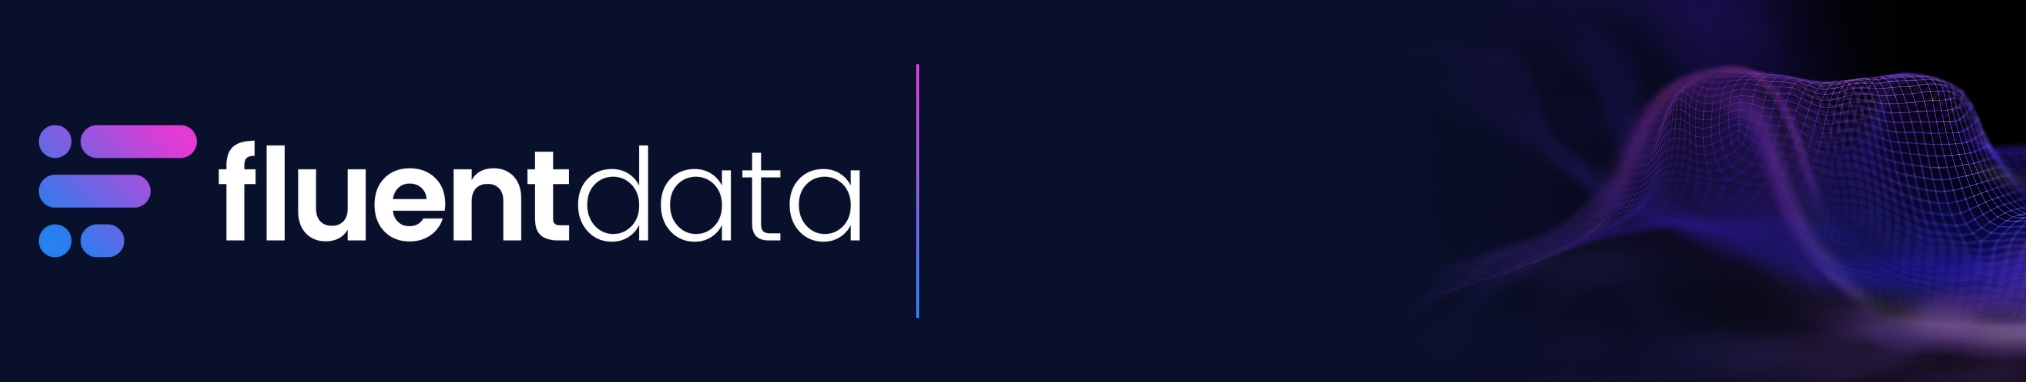
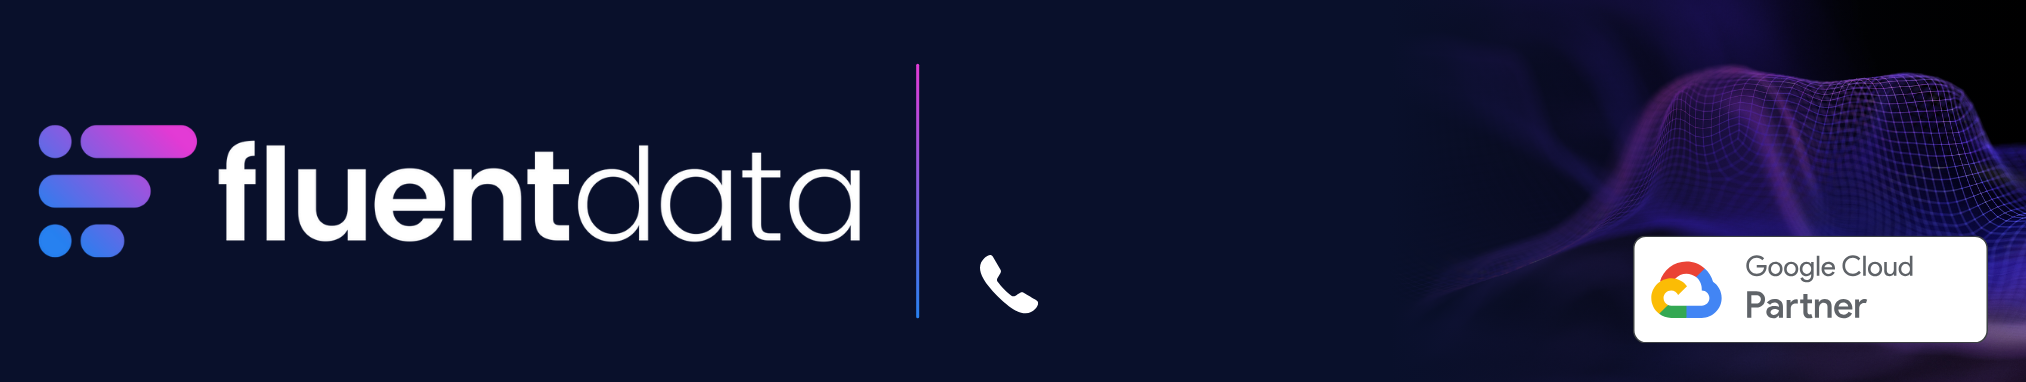
Include phone number in signature

Changed region(s): [[0.8085, 0.6047, 0.9951, 0.9215], [0.4664, 0.6623, 0.4975, 0.7775], [0.4975, 0.7775, 0.5286, 0.8351]]

diff --git a/app.py b/app.py
@@ -8,14 +8,19 @@ st.set_page_config(
 )
 
 
-def create_email_signature(name, role, name_font_size=70, role_font_size=40):
+def create_email_signature(name, role, phone, name_font_size=70, role_font_size=40, phone_font_size=40):
     image = Image.open("signature.png")
     draw = ImageDraw.Draw(image)
-    font_bold = ImageFont.truetype("./font/Poppins-Bold.ttf", name_font_size)
-    font_regular = ImageFont.truetype("./font/Poppins-Regular.ttf", role_font_size)
+    font_name = ImageFont.truetype("./font/Poppins-Bold.ttf", name_font_size)
+    font_role = ImageFont.truetype("./font/Poppins-Italic.ttf", role_font_size)
+    font_phone = ImageFont.truetype("./font/Poppins-Regular.ttf", phone_font_size)
 
-    draw.text((972.6, 119), name, font=font_bold, fill="white")
-    draw.text((972.6, 215), role, font=font_regular, fill="white")
+    # Name
+    draw.text((975.2, 63.9), name, font=font_name, fill="white")
+    # Role
+    draw.text((972.6, 170), role, font=font_role, fill="white")
+    # Phone
+    draw.text((1068.1, 257.8), text=phone, font=font_phone, fill="white")
 
     return image
 
@@ -28,12 +33,14 @@ sidebar = st.sidebar
 
 name = signature_form.text_input("Your name")
 role = signature_form.text_input("Your role")
+phone = signature_form.text_input("Your phone number")
 
 # Font settings
 sidebar.title("Font settings")
 # TODO: Changing the sidebar values refreshes the page, which is not ideal
 name_font_size = sidebar.slider("Name font size", 0, 100, 70)
 role_font_size = sidebar.slider("Role font size", 0, 100, 40)
+phone_font_size = sidebar.slider("Phone font size", 0, 100, 40)
 
 submit = signature_form.form_submit_button(label="Create email signature")
 
@@ -41,7 +48,7 @@ if submit:
     st.markdown("### Download your signature")
     st.markdown("Click the button below to download your email signature")
 
-    signature = create_email_signature(name, role, name_font_size, role_font_size)
+    signature = create_email_signature(name, role, phone, name_font_size, role_font_size, phone_font_size)
     st.image(signature)
 
     # TODO: Streamlit doesn't accept this?
